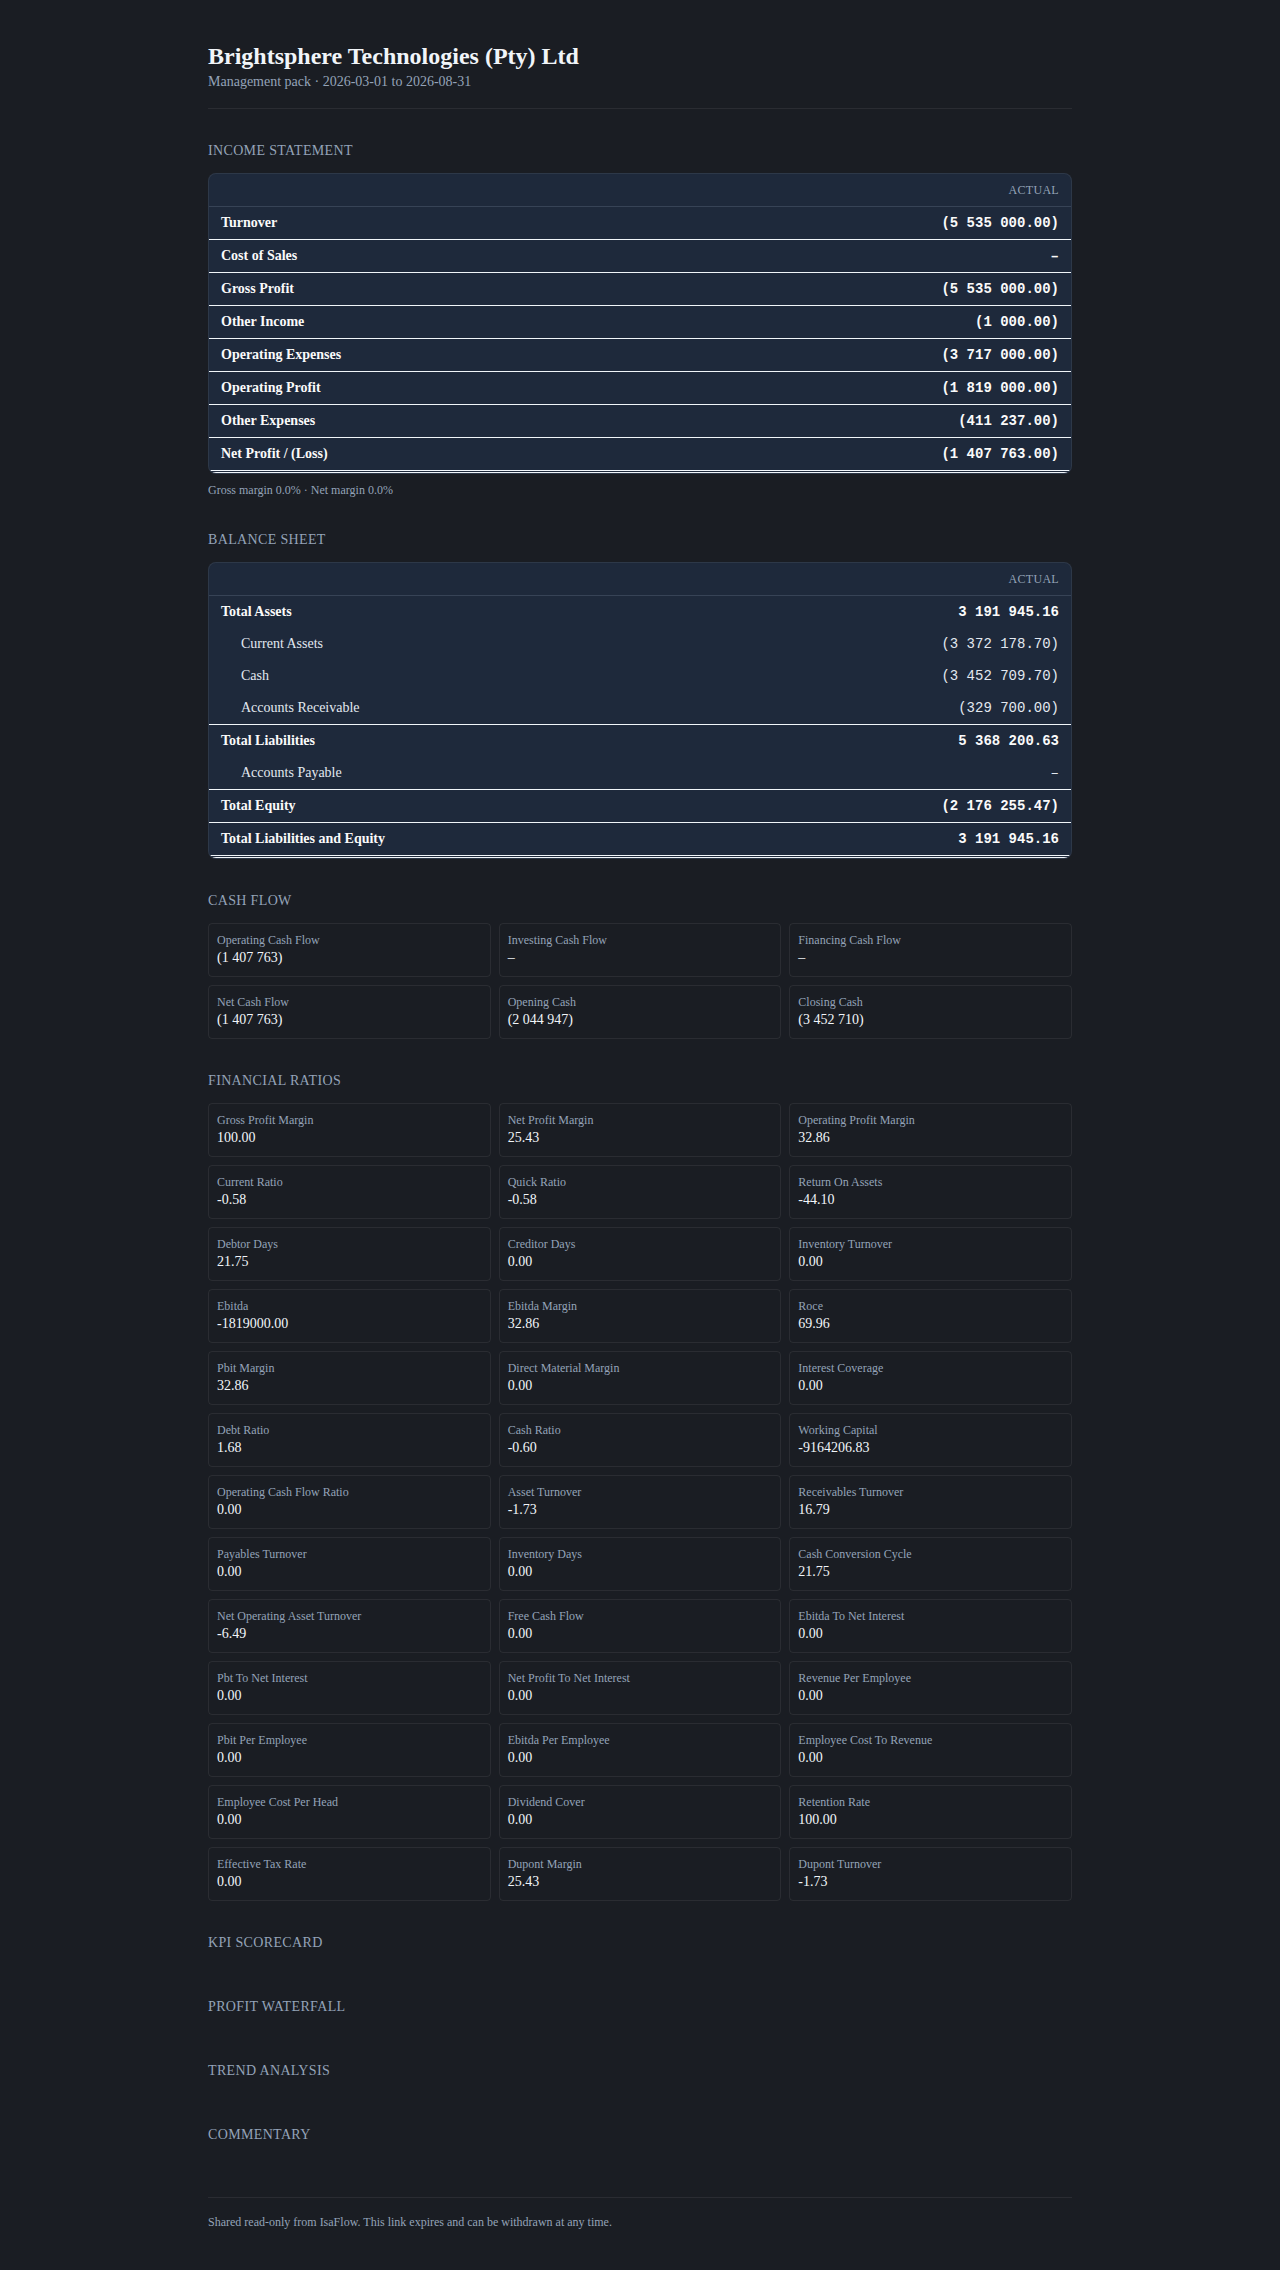
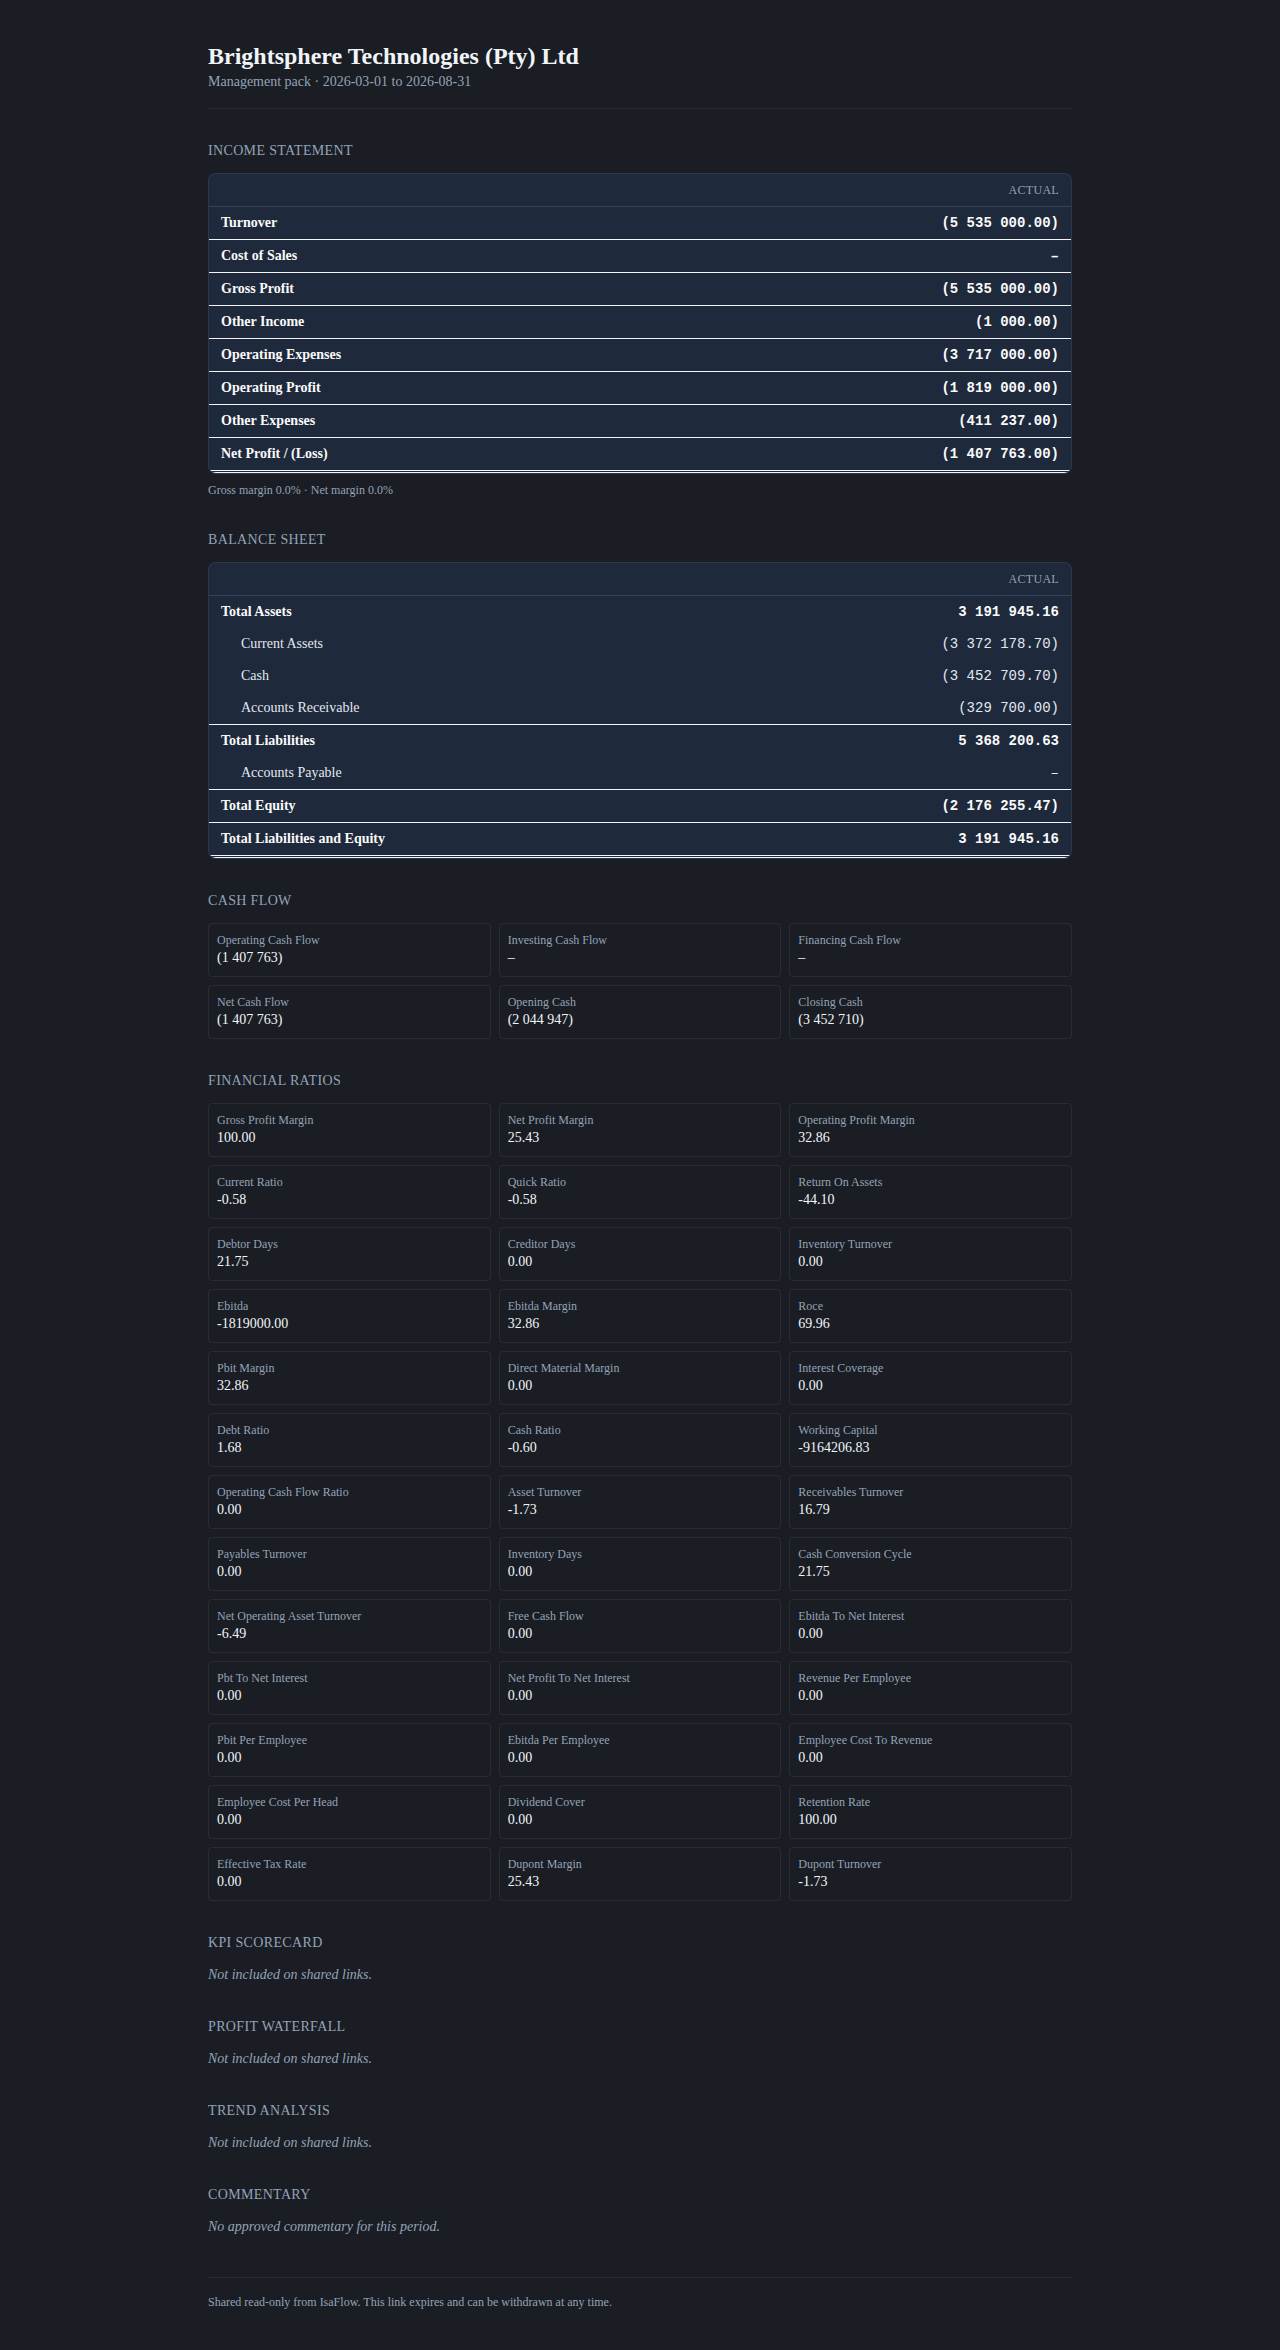
fix(share): the four array-shaped sections say what they are
KPIs, waterfall and trends carry arrays, not top-level numbers, so they
rendered as bare headings on a document sent to a client, which reads as
a rendering failure. They now say they are not on a shared link; WS2's
section view replaces the note after merge.

The commentary section renders the approved text the shared pack already
carries. The pack's own generated summary has been through no approval
and must never reach a third party.

diff --git a/tests/unit/components/share/sharedPackView.test.ts b/tests/unit/components/share/sharedPackView.test.ts
@@ -54,6 +54,10 @@ const pack: SharedPack = {
         title: 'Financial Ratios',
         data: { currentRatio: -0.58, debtToEquity: 2.4 },
       },
+      { type: 'kpis', title: 'KPI Scorecard', data: { scorecard: [{ name: 'Gross margin', value: 40 }] } },
+      { type: 'waterfall', title: 'Profit Waterfall', data: { steps: [{ label: 'Revenue', value: 1 }] } },
+      { type: 'trends', title: 'Trend Analysis', data: { series: [1, 2, 3] } },
+      { type: 'commentary', title: 'Commentary', data: { summary: 'Generated summary nobody approved.' } },
     ],
   },
 } as SharedPack;
@@ -69,7 +73,7 @@ describe('SharedPackView', () => {
   });
 
   it('renders every section the pack carries, keyed by its type', () => {
-    for (const t of ['income_statement', 'balance_sheet', 'cash_flow', 'ratios']) {
+    for (const t of ['income_statement', 'balance_sheet', 'cash_flow', 'ratios', 'kpis', 'waterfall', 'trends', 'commentary']) {
       expect(html).toContain(`data-section="${t}"`);
     }
     expect(html).toContain('Income Statement');
@@ -121,5 +125,36 @@ describe('SharedPackView', () => {
     expect(html).not.toContain('href=');
     expect(html).not.toContain('<nav');
     expect(html).not.toContain('<button');
+  });
+
+  it('says plainly that the array-shaped sections are not on a shared link', () => {
+    // An empty heading on a document sent to a client reads as a rendering
+    // failure. Three headings did exactly that before this.
+    const notes = html.match(/Not included on shared links\./g) ?? [];
+    expect(notes).toHaveLength(3);
+    for (const t of ['kpis', 'waterfall', 'trends']) {
+      const at = html.indexOf(`data-section="${t}"`);
+      const nextSection = html.indexOf('data-section="', at + 1);
+      const body = nextSection === -1 ? html.slice(at) : html.slice(at, nextSection);
+      expect(body).toContain('Not included on shared links.');
+    }
+  });
+
+  it('never renders the pack\'s own generated commentary summary', () => {
+    // The commentary section shows APPROVED text only. The pack's generated
+    // summary has been through no approval and must not reach a third party.
+    expect(html).not.toContain('Generated summary nobody approved.');
+    expect(html).toContain('No approved commentary for this period.');
+  });
+
+  it('renders approved commentary in the commentary section instead of the empty state', () => {
+    const withNote = renderToStaticMarkup(React.createElement(SharedPackView, {
+      data: {
+        ...pack,
+        commentary: [...pack.commentary, { sectionRef: 'commentary', rowRef: 'summary', text: 'Approved closing note.' }],
+      },
+    }));
+    expect(withNote).toContain('Approved closing note.');
+    expect(withNote).not.toContain('No approved commentary for this period.');
   });
 });

diff --git a/src/components/accounting/share/SharedPackView.tsx b/src/components/accounting/share/SharedPackView.tsx
@@ -39,6 +39,21 @@ function formatFigure(sectionType: string, value: number): string {
   return formatMoney(value);
 }
 
+/** Sections whose data is arrays and prose, not top-level numbers: the KPI
+ *  scorecard, the profit waterfall and the trend series. Rendering them here
+ *  would mean inventing a second shape for each, so a shared link says plainly
+ *  that they are not on it rather than showing a heading with nothing under it.
+ *  WS2's section view replaces this note with the real renderers after merge. */
+const OMITTED_SECTIONS = new Set(['kpis', 'waterfall', 'trends']);
+
+function hasNotes(commentary: PublishedCommentary[], sectionRef: string): boolean {
+  return commentary.some(c => c.sectionRef === sectionRef);
+}
+
+function Note({ children }: { children: string }) {
+  return <p className="text-sm italic text-[var(--ff-text-tertiary)]">{children}</p>;
+}
+
 export function SharedPackView({ data }: { data: SharedPack }) {
   return (
     <main className="mx-auto max-w-4xl px-4 py-10">
@@ -66,7 +81,17 @@ export function SharedPackView({ data }: { data: SharedPack }) {
           {section.type === 'balance_sheet' && (
             <ManagementBalanceSheetRows bs={packToBsTotals(section.data)} detail={packToBsDetail(section.data)} />
           )}
-          {section.type !== 'income_statement' && section.type !== 'balance_sheet' && (
+          {OMITTED_SECTIONS.has(section.type) && (
+            <Note>Not included on shared links.</Note>
+          )}
+          {/* The pack's own `commentary` section carries a generated summary.
+              A shared link shows APPROVED text only, which CommentaryFor
+              renders below, so this body is just the empty-state. */}
+          {section.type === 'commentary' && !hasNotes(data.commentary, 'commentary') && (
+            <Note>No approved commentary for this period.</Note>
+          )}
+          {section.type !== 'income_statement' && section.type !== 'balance_sheet'
+            && section.type !== 'commentary' && !OMITTED_SECTIONS.has(section.type) && (
             <dl className="grid grid-cols-2 gap-2 text-sm md:grid-cols-3">
               {Object.entries(section.data)
                 .filter(([, v]) => typeof v === 'number')

diff --git a/pages/share/[token].tsx b/pages/share/[token].tsx
@@ -3,6 +3,13 @@
  * token. getServerSideProps does all the work so nothing about the link or the
  * company reaches the client bundle except the rendered pack.
  *
+ * ACCEPTED RESIDUAL: Next.js serialises the route query into the page's
+ * __NEXT_DATA__, so the rendered HTML carries the token. getServerSideProps
+ * does not put it there and a dynamic route cannot opt out; only a middleware
+ * rewrite onto a fixed path could. Ruled acceptable: the viewer already holds
+ * the token in their address bar, the page is no-store and noindex, and no
+ * cookie is issued. Do not "fix" this by editing middleware.ts.
+ *
  * Unknown, expired and revoked are ONE outcome here: the same neutral page,
  * the same 404, the same props. Distinguishing them would make this route an
  * oracle — a caller walking tokens could tell "this link never existed" from
